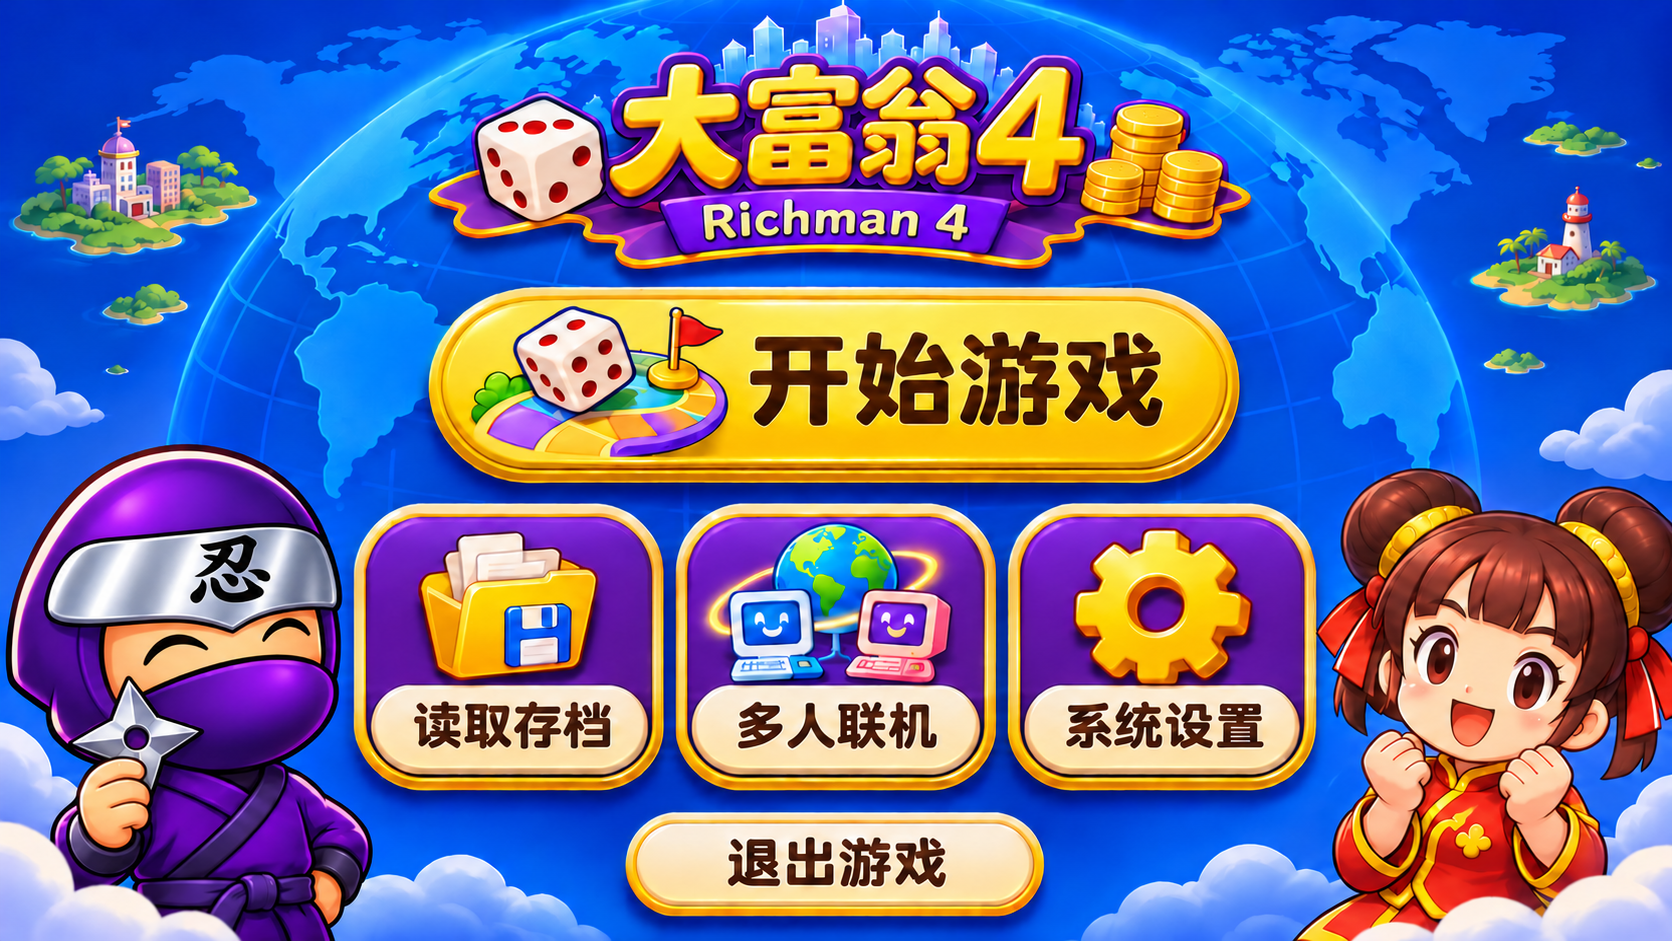
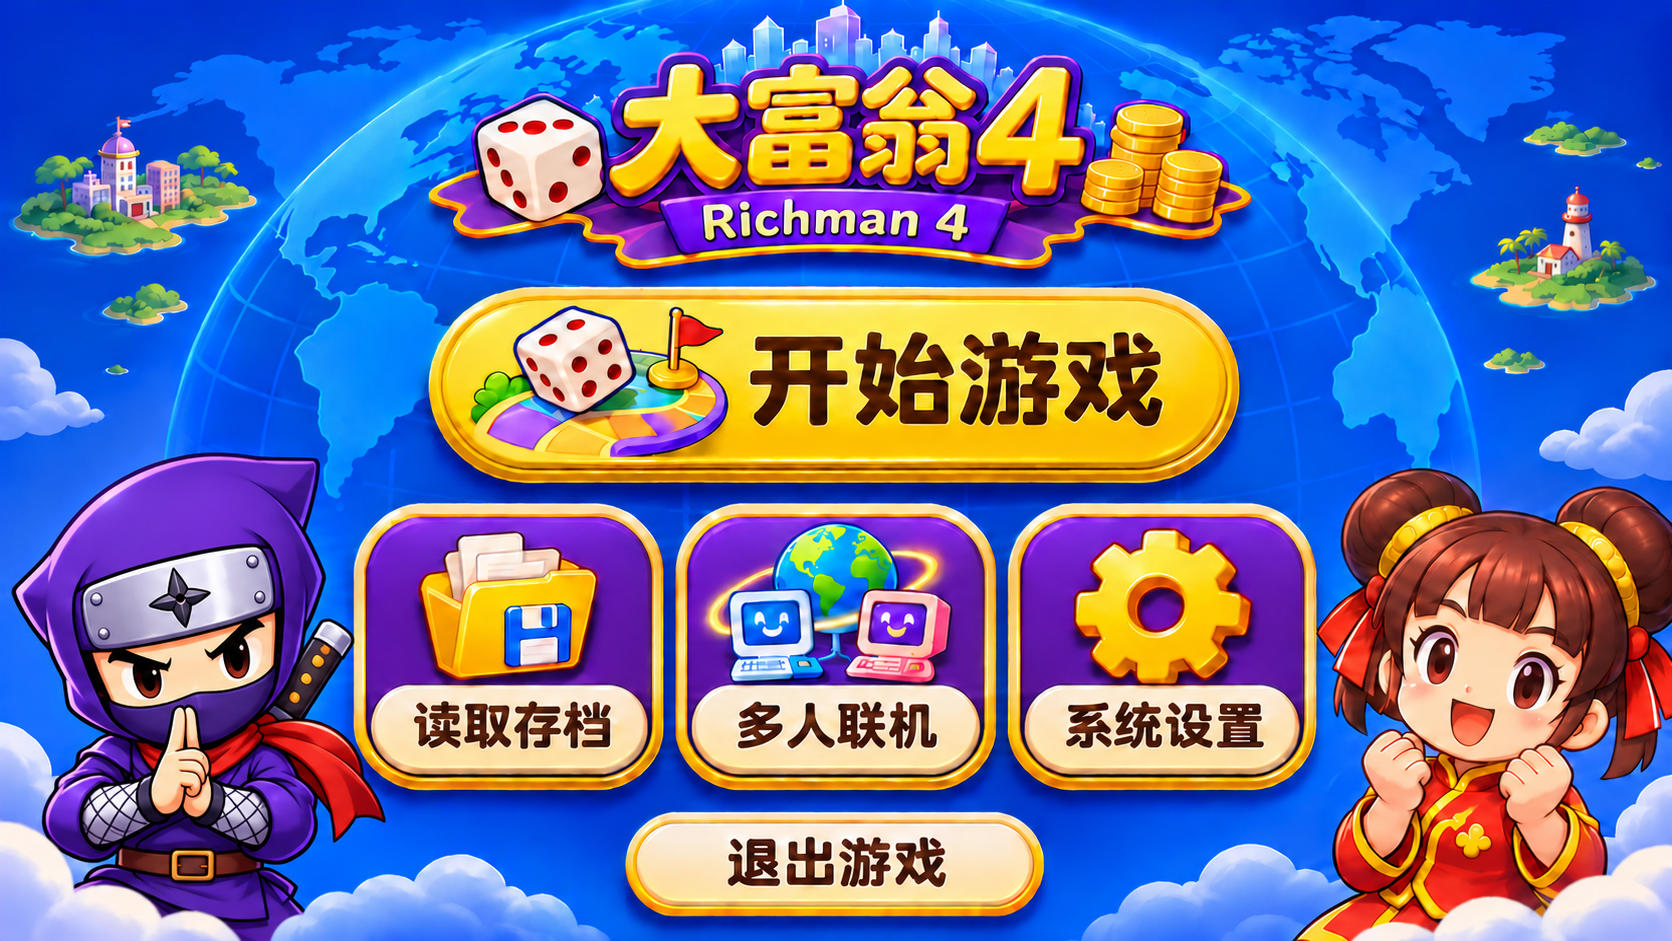
Refresh download-site Nintaro cover in all screen layouts

diff --git a/docs/index.html b/docs/index.html
@@ -1,10 +1,10 @@
 <!doctype html><html lang="zh-CN"><head><meta charset="utf-8"><meta name="viewport" content="width=device-width,initial-scale=1"><title>大富翁4 · 联机重制版下载</title><meta name="description" content="大富翁4重制版 Windows、Android 完整包下载与浏览器游玩，提供平台部署、Web 前后端启动和联机使用手册。"><link rel="stylesheet" href="game.css"><script src="gallery.js" defer></script></head><body><a class="skip" href="#downloads">跳到下载</a><header><a class="brand" href="#"><span class="dice" aria-hidden="true">⚄</span><span>大富翁 <b>4</b><small>EXP-Games · 联机重制版</small></span></a><nav><a href="#downloads">下载</a><a href="manual.html">使用手册</a><a href="#startup">启动方式</a><a href="#guide">联机步骤</a><a href="#preview">设计图集</a></nav></header><main>
-<section class="hero"><div><p class="eyebrow">Windows · Android · Web</p><h1>大富翁 4<span>和朋友一起开一局</span></h1><p class="lead">八张经典地图，十二位熟悉的角色。保留原版对照入口，提供高清重制画面、单机存档与跨端联机。</p><div class="hero-actions"><a class="button green" href="https://github.com/EXP-Games/rich4-online-release/blob/master/PLATFORM.md">自行部署浏览器版 ↗</a><a class="button gold" href="#downloads">下载完整包 ↓</a><a class="button white" href="manual.html">阅读使用手册</a></div></div><a class="preview-link frame" href="images/ui/main-pc.png" data-title="主菜单 · 设计参考"><img src="images/ui/main-pc.png" alt="大富翁4主菜单设计参考"></a></section>
+<section class="hero"><div><p class="eyebrow">Windows · Android · Web</p><h1>大富翁 4<span>和朋友一起开一局</span></h1><p class="lead">八张经典地图，十二位熟悉的角色。保留原版对照入口，提供高清重制画面、单机存档与跨端联机。</p><div class="hero-actions"><a class="button green" href="https://github.com/EXP-Games/rich4-online-release/blob/master/PLATFORM.md">自行部署浏览器版 ↗</a><a class="button gold" href="#downloads">下载完整包 ↓</a><a class="button white" href="manual.html">阅读使用手册</a></div></div><a class="preview-link frame" href="images/ui/main-pc.png?v=00017b22f1e9" data-title="主菜单 · 设计参考"><img src="images/ui/main-pc.png?v=00017b22f1e9" alt="大富翁4主菜单设计参考"></a></section>
 <section id="downloads"><div class="heading"><span class="step">01</span><div><p class="eyebrow">完整过场 · 不再提供本期轻量包</p><h2>下载与安装</h2></div></div><div class="guide-grid"><article class="paper"><h3>Windows x64</h3><p>下载 Windows ZIP 或其全部分卷，校验合并并全部解压。进入 Rich4，运行「大富翁4-Re.exe」。原版对照入口和控制台调试入口一并保留。</p><a class="button blue" href="https://github.com/EXP-Games/rich4-online-release/releases/tag/v0.1.11-preview.20261115">Windows · 3 个分卷 ↗</a><p class="part-links">分卷直链：<a data-release-asset="Rich4-Windows-x64-v0.1.11-preview.20261115.zip.001" href="https://github.com/EXP-Games/rich4-online-release/releases/download/v0.1.11-preview.20261115/Rich4-Windows-x64-v0.1.11-preview.20261115.zip.001">001</a> · <a data-release-asset="Rich4-Windows-x64-v0.1.11-preview.20261115.zip.002" href="https://github.com/EXP-Games/rich4-online-release/releases/download/v0.1.11-preview.20261115/Rich4-Windows-x64-v0.1.11-preview.20261115.zip.002">002</a> · <a data-release-asset="Rich4-Windows-x64-v0.1.11-preview.20261115.zip.003" href="https://github.com/EXP-Games/rich4-online-release/releases/download/v0.1.11-preview.20261115/Rich4-Windows-x64-v0.1.11-preview.20261115.zip.003">003</a></p></article><article class="paper"><h3>Android ARM64</h3><p>Android 8.0+，完整 APK 包含 21 段独立过场及游戏内动画、音乐和语音。若为分卷，先在电脑合并成 APK，再传到手机安装。</p><a class="button green" href="https://github.com/EXP-Games/rich4-online-release/releases/tag/v0.1.11-preview.20261115">Android · 2 个分卷 ↗</a><p class="part-links">分卷直链：<a data-release-asset="Rich4-Android-arm64-v0.1.11-preview.20261115.apk.001" href="https://github.com/EXP-Games/rich4-online-release/releases/download/v0.1.11-preview.20261115/Rich4-Android-arm64-v0.1.11-preview.20261115.apk.001">001</a> · <a data-release-asset="Rich4-Android-arm64-v0.1.11-preview.20261115.apk.002" href="https://github.com/EXP-Games/rich4-online-release/releases/download/v0.1.11-preview.20261115/Rich4-Android-arm64-v0.1.11-preview.20261115.apk.002">002</a></p></article><article class="paper"><h3>Web 浏览器</h3><p>先自行部署 Web 服务，再打开部署地址，等待资源准备即可游玩。支持单机及联机。浏览器存档保存在当前站点，更新页面时请勿清除含存档的站点数据。</p><a class="button gold" href="https://github.com/EXP-Games/rich4-online-release/blob/master/PLATFORM.md">部署 Web 服务 ↗</a></article></div><p class="design-note">v0.1.11-preview.20261115 已发布。Windows 完整 ZIP 约 4.26 GB（3 卷），Android ARM64 完整 APK 约 3.31 GB（2 卷）。分卷包请同时下载 release-manifest.json、Merge-Packages.cmd、Merge-Packages.ps1 和 SHA256SUMS.txt；双击 CMD 会逐卷校验并还原完整 ZIP／APK。分卷不能直接安装。<a href="manual.html">查看完整步骤 →</a></p></section>
 <section class="paper" aria-label="下载校验与合并工具"><h3>校验与合并工具</h3><p><a href="release-011-downloads.json">完整下载 SHA-256 校验已通过 →</a></p><p>下载同一版本的全部分卷，以及以下 4 个文件，放到同一文件夹后双击 Merge-Packages.cmd。</p><p><a data-release-asset="release-manifest.json" href="https://github.com/EXP-Games/rich4-online-release/releases/download/v0.1.11-preview.20261115/release-manifest.json">release-manifest.json</a> · <a data-release-asset="Merge-Packages.cmd" href="https://github.com/EXP-Games/rich4-online-release/releases/download/v0.1.11-preview.20261115/Merge-Packages.cmd">Merge-Packages.cmd</a> · <a data-release-asset="Merge-Packages.ps1" href="https://github.com/EXP-Games/rich4-online-release/releases/download/v0.1.11-preview.20261115/Merge-Packages.ps1">Merge-Packages.ps1</a> · <a data-release-asset="SHA256SUMS.txt" href="https://github.com/EXP-Games/rich4-online-release/releases/download/v0.1.11-preview.20261115/SHA256SUMS.txt">SHA256SUMS.txt</a></p><p><a href="manual.html">完整使用手册</a> · <a href="https://github.com/EXP-Games/rich4-online-release/blob/master/PLATFORM.md">公开平台启动说明</a></p></section><section id="startup"><div class="heading"><span class="step">02</span><div><p class="eyebrow">玩家游玩与管理员启动</p><h2>六类启动与使用说明</h2></div></div><div class="guide-grid"><article class="paper"><h3>1 · 平台启动</h3><p>Python 平台提供房间管理、TCP 和 WebSocket。独立部署包直接运行 lobby/server.py，原生游戏端口 27654，管理页只监听本机 27655。</p><a href="manual.html">平台启动命令 →</a></article><article class="paper"><h3>2 · Web 前后端</h3><p>后端可同时提供已构建的网页与 WebSocket；也可单独启动前端开发服务器。HTTP／WS 共用 Web 端口，与原生 TCP 分开。</p><a href="manual.html">后端与前端命令 →</a></article><article class="paper"><h3>3 · 浏览器游玩</h3><p>自行部署 Web 服务后打开部署地址，选择开始游戏或多人联机；资源按需准备。</p><a href="https://github.com/EXP-Games/rich4-online-release/blob/master/PLATFORM.md">查看部署步骤 →</a></article><article class="paper"><h3>4 · Windows 游玩</h3><p>大富翁4-Re.exe 启动重制版；大富翁4-Re.cmd 查看控制台；大富翁4.exe 保留原版对照。保留整个解压目录。</p></article><article class="paper"><h3>5 · Android 游玩</h3><p>手机安装 ARM64 完整 APK，首次启动等待资源准备。x86_64 完整包供对应模拟器本地测试。</p></article><article class="paper"><h3>6 · 联机步骤</h3><p>昵称、相同口令、切换人物、选择离线预案并准备，最后由房主开始。</p><a href="#guide">联机操作 →</a></article></div></section>
 <section id="guide"><div class="heading"><span class="step">03</span><div><p class="eyebrow">同一口令，跨端加入</p><h2>一起开一局</h2></div></div><ol class="guide-grid"><li class="paper"><span class="number">1</span><h3>连接平台</h3><p>先自行部署平台。Windows／Android 填服务器IP:27654；浏览器使用自己部署的 Web 地址。</p></li><li class="paper"><span class="number">2</span><h3>建房与准备</h3><p>房主平台建房，其他人输入六位口令加入。选择人物及离线预案后准备。空位补 AI，关闭席位不参与。</p></li><li class="paper"><span class="number">3</span><h3>房主开始</h3><p>其他玩家准备后，房主开始。当前玩家操作 GO、道具和卡片；同步期间点击会记录一次。联机不提供存档。</p></li></ol><p class="design-note">本地建房监听 0.0.0.0，其他设备填写房主实际 IP；不要把 127.0.0.1 发给其他玩家。仅界面微调的版本在规则代次兼容时可共同联机。<a href="manual.html">断线恢复与常见问题 →</a></p></section>
 <section id="preview"><div class="heading"><span class="step">04</span><div><p class="eyebrow">设计参考图集</p><h2>三种屏幕比例</h2></div></div><p class="design-note">以下保留批准的界面设计图，属于设计参考；当前安装包以实际运行界面为准。</p><div class="filters"><button class="active" data-device="all" aria-pressed="true">全部</button><button data-device="pc" aria-pressed="false">PC 横屏</button><button data-device="mobile-landscape" aria-pressed="false">手机横屏</button><button data-device="mobile-portrait" aria-pressed="false">手机竖屏</button></div><p id="gallery-status" role="status">21 张设计参考图，点击图片可放大。</p><!-- UI_GALLERY -->
-<section id="screen-main" class="screen-group" aria-labelledby="title-main"><div class="group-heading"><h3 id="title-main">主菜单</h3><p>封面忍太郎已按确认的头部修正护额；开始游戏合并原有两种开局入口。</p></div><div class="device-grid"><figure class="device-card" data-device="pc"><a class="preview-link" href="images/ui/main-pc.png?v=669a1ea31d74" data-title="主菜单 · PC 横屏 · 设计效果图"><div class="preview-image"><img loading="lazy" decoding="async" src="images/ui/main-pc.png?v=669a1ea31d74" width="1672" height="941" alt="主菜单 · PC 横屏 · 设计效果图"></div><figcaption><b>PC 横屏</b><span>设计稿 · 点击放大 ↗</span></figcaption></a></figure><figure class="device-card" data-device="mobile-landscape"><a class="preview-link" href="images/ui/main-mobile-landscape.png?v=d37e7f9714ae" data-title="主菜单 · 手机横屏 · 设计效果图"><div class="preview-image"><img loading="lazy" decoding="async" src="images/ui/main-mobile-landscape.png?v=d37e7f9714ae" width="1846" height="852" alt="主菜单 · 手机横屏 · 设计效果图"></div><figcaption><b>手机横屏</b><span>设计稿 · 点击放大 ↗</span></figcaption></a></figure><figure class="device-card" data-device="mobile-portrait"><a class="preview-link" href="images/ui/main-mobile-portrait.png?v=2c2b43096c6f" data-title="主菜单 · 手机竖屏 · 设计效果图"><div class="preview-image"><img loading="lazy" decoding="async" src="images/ui/main-mobile-portrait.png?v=2c2b43096c6f" width="941" height="1670" alt="主菜单 · 手机竖屏 · 设计效果图"></div><figcaption><b>手机竖屏</b><span>设计稿 · 点击放大 ↗</span></figcaption></a></figure></div></section>
+<section id="screen-main" class="screen-group" aria-labelledby="title-main"><div class="group-heading"><h3 id="title-main">主菜单</h3><p>主菜单封面统一使用新版忍太郎：尖角紫色头巾、四角手里剑护额与红围巾。</p></div><div class="device-grid"><figure class="device-card" data-device="pc"><a class="preview-link" href="images/ui/main-pc.png?v=00017b22f1e9" data-title="主菜单 · PC 横屏 · 设计效果图"><div class="preview-image"><img loading="lazy" decoding="async" src="images/ui/main-pc.png?v=00017b22f1e9" width="1672" height="941" alt="主菜单 · PC 横屏 · 设计效果图"></div><figcaption><b>PC 横屏</b><span>设计稿 · 点击放大 ↗</span></figcaption></a></figure><figure class="device-card" data-device="mobile-landscape"><a class="preview-link" href="images/ui/main-mobile-landscape.png?v=7fd8aae1ce66" data-title="主菜单 · 手机横屏 · 设计效果图"><div class="preview-image"><img loading="lazy" decoding="async" src="images/ui/main-mobile-landscape.png?v=7fd8aae1ce66" width="1846" height="852" alt="主菜单 · 手机横屏 · 设计效果图"></div><figcaption><b>手机横屏</b><span>设计稿 · 点击放大 ↗</span></figcaption></a></figure><figure class="device-card" data-device="mobile-portrait"><a class="preview-link" href="images/ui/main-mobile-portrait.png?v=1bab3be5e23e" data-title="主菜单 · 手机竖屏 · 设计效果图"><div class="preview-image"><img loading="lazy" decoding="async" src="images/ui/main-mobile-portrait.png?v=1bab3be5e23e" width="942" height="1670" alt="主菜单 · 手机竖屏 · 设计效果图"></div><figcaption><b>手机竖屏</b><span>设计稿 · 点击放大 ↗</span></figcaption></a></figure></div></section>
 <section id="screen-room" class="screen-group" aria-labelledby="title-room"><div class="group-heading"><h3 id="title-room">联机房间</h3><p>四个席位、房间聊天与编辑结束自动保存的设计。</p></div><div class="device-grid"><figure class="device-card" data-device="pc"><a class="preview-link" href="images/ui/room-pc.png?v=db71b03a20bc" data-title="联机房间 · PC 横屏 · 设计效果图"><div class="preview-image"><img loading="lazy" decoding="async" src="images/ui/room-pc.png?v=db71b03a20bc" width="1672" height="941" alt="联机房间 · PC 横屏 · 设计效果图"></div><figcaption><b>PC 横屏</b><span>设计稿 · 点击放大 ↗</span></figcaption></a></figure><figure class="device-card" data-device="mobile-landscape"><a class="preview-link" href="images/ui/room-mobile-landscape.png?v=657895cd45ea" data-title="联机房间 · 手机横屏 · 设计效果图"><div class="preview-image"><img loading="lazy" decoding="async" src="images/ui/room-mobile-landscape.png?v=657895cd45ea" width="1821" height="864" alt="联机房间 · 手机横屏 · 设计效果图"></div><figcaption><b>手机横屏</b><span>设计稿 · 点击放大 ↗</span></figcaption></a></figure><figure class="device-card" data-device="mobile-portrait"><a class="preview-link" href="images/ui/room-mobile-portrait.png?v=ae670bd3ca78" data-title="联机房间 · 手机竖屏 · 设计效果图"><div class="preview-image"><img loading="lazy" decoding="async" src="images/ui/room-mobile-portrait.png?v=ae670bd3ca78" width="892" height="1763" alt="联机房间 · 手机竖屏 · 设计效果图"></div><figcaption><b>手机竖屏</b><span>设计稿 · 点击放大 ↗</span></figcaption></a></figure></div></section>
 <section id="screen-settings" class="screen-group" aria-labelledby="title-settings"><div class="group-heading"><h3 id="title-settings">系统设置</h3><p>PC 展示显示页；手机展示音画页，横竖屏独立排版。</p></div><div class="device-grid"><figure class="device-card" data-device="pc"><a class="preview-link" href="images/ui/settings-pc.png?v=a305cf726425" data-title="系统设置 · PC 横屏 · 设计效果图"><div class="preview-image"><img loading="lazy" decoding="async" src="images/ui/settings-pc.png?v=a305cf726425" width="1672" height="941" alt="系统设置 · PC 横屏 · 设计效果图"></div><figcaption><b>PC 横屏</b><span>设计稿 · 点击放大 ↗</span></figcaption></a></figure><figure class="device-card" data-device="mobile-landscape"><a class="preview-link" href="images/ui/settings-mobile-landscape.png?v=72a2c09d9ff9" data-title="系统设置 · 手机横屏 · 设计效果图"><div class="preview-image"><img loading="lazy" decoding="async" src="images/ui/settings-mobile-landscape.png?v=72a2c09d9ff9" width="1821" height="864" alt="系统设置 · 手机横屏 · 设计效果图"></div><figcaption><b>手机横屏</b><span>设计稿 · 点击放大 ↗</span></figcaption></a></figure><figure class="device-card" data-device="mobile-portrait"><a class="preview-link" href="images/ui/settings-mobile-portrait.png?v=e4c9707ed496" data-title="系统设置 · 手机竖屏 · 设计效果图"><div class="preview-image"><img loading="lazy" decoding="async" src="images/ui/settings-mobile-portrait.png?v=e4c9707ed496" width="892" height="1763" alt="系统设置 · 手机竖屏 · 设计效果图"></div><figcaption><b>手机竖屏</b><span>设计稿 · 点击放大 ↗</span></figcaption></a></figure></div></section>
 <section id="screen-policy" class="screen-group" aria-labelledby="title-policy"><div class="group-heading"><h3 id="title-policy">准备 · 离线行动</h3><p>AI 接管、破产清算、外星人暂离。</p></div><div class="device-grid"><figure class="device-card" data-device="pc"><a class="preview-link" href="images/ui/policy-pc.png?v=f2a4d9c61951" data-title="准备 · 离线行动 · PC 横屏 · 设计效果图"><div class="preview-image"><img loading="lazy" decoding="async" src="images/ui/policy-pc.png?v=f2a4d9c61951" width="1672" height="941" alt="准备 · 离线行动 · PC 横屏 · 设计效果图"></div><figcaption><b>PC 横屏</b><span>设计稿 · 点击放大 ↗</span></figcaption></a></figure><figure class="device-card" data-device="mobile-landscape"><a class="preview-link" href="images/ui/policy-mobile-landscape.png?v=2e4258811706" data-title="准备 · 离线行动 · 手机横屏 · 设计效果图"><div class="preview-image"><img loading="lazy" decoding="async" src="images/ui/policy-mobile-landscape.png?v=2e4258811706" width="1821" height="864" alt="准备 · 离线行动 · 手机横屏 · 设计效果图"></div><figcaption><b>手机横屏</b><span>设计稿 · 点击放大 ↗</span></figcaption></a></figure><figure class="device-card" data-device="mobile-portrait"><a class="preview-link" href="images/ui/policy-mobile-portrait.png?v=d90c66b4591f" data-title="准备 · 离线行动 · 手机竖屏 · 设计效果图"><div class="preview-image"><img loading="lazy" decoding="async" src="images/ui/policy-mobile-portrait.png?v=d90c66b4591f" width="898" height="1751" alt="准备 · 离线行动 · 手机竖屏 · 设计效果图"></div><figcaption><b>手机竖屏</b><span>设计稿 · 点击放大 ↗</span></figcaption></a></figure></div></section>
